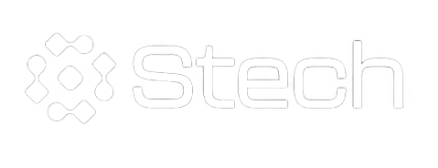
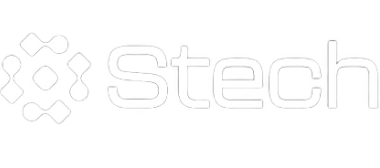
랜딩페이지 로고 수정

diff --git a/Front/src/pages/Landing/LandingHome/MainHeader.js b/Front/src/pages/Landing/LandingHome/MainHeader.js
@@ -4,48 +4,72 @@ import './MainHeader.css'; // Assuming you have a separate CSS file for Header s
 import Logo from './images/stech.png';
 
 const Header = () => {
-    return (
-        <div className="headerBox">
-            <div className="logoBox">
-                <Link to="/">
-                    <img src={Logo} alt="Logo" className="logoImg" />
-                </Link>
-            </div>
-            <div className="menu">
-                <div className="homeButton">
-                    <NavLink to="/" className={({ isActive }) => (isActive ? 'homeActive' : 'home')} end>
-                        Home
-                    </NavLink>
-                </div>
-                <div className="docsButton">
-                    <div className="docs" onClick={() => window.open('https://stech-2.gitbook.io/stech-docs', '_blank')}>
-                        Docs
-                    </div>
-                </div>
-                <div className="teamButton">
-                    <NavLink to="/Team" className={({ isActive }) => (isActive ? 'teamActive' : 'team')}>
-                        Team
-                    </NavLink>
-                </div>
-                <div className="deckButton">
-                    <NavLink to="/Deck" className={({ isActive }) => (isActive ? 'deckActive' : 'deck')}>
-                        Deck
-                    </NavLink>
-                </div>
-                <div className="contactButton">
-                    <NavLink to="/Contact" className={({ isActive }) => (isActive ? 'contactActive' : 'contact')}>
-                        Contact
-                    </NavLink>
-                </div>
-                <button className="toService">
-                    {/* Link 컴포넌트에 직접 스타일 적용 */}
-                    <Link to="/service" className="serviceButton" style={{ color: '#4f46e5', textDecoration: 'none' }}>
-                        Go to Service
-                    </Link>
-                </button>
-            </div>
+  return (
+    <div className="headerBox">
+      <div className="logoBox">
+        <Link to="/">
+          <img src={Logo} alt="Logo" className="logoImg" />
+        </Link>
+      </div>
+      <div className="menu">
+        <div className="homeButton">
+          <NavLink
+            to="/"
+            className={({ isActive }) => (isActive ? 'homeActive' : 'home')}
+            end
+          >
+            Home
+          </NavLink>
         </div>
-    );
+        <div className="docsButton">
+          <div
+            className="docs"
+            onClick={() =>
+              window.open('https://stech-2.gitbook.io/stech-docs', '_blank')
+            }
+          >
+            Docs
+          </div>
+        </div>
+        <div className="teamButton">
+          <NavLink
+            to="/Team"
+            className={({ isActive }) => (isActive ? 'teamActive' : 'team')}
+          >
+            Team
+          </NavLink>
+        </div>
+        <div className="deckButton">
+          <NavLink
+            to="/Deck"
+            className={({ isActive }) => (isActive ? 'deckActive' : 'deck')}
+          >
+            Deck
+          </NavLink>
+        </div>
+        <div className="contactButton">
+          <NavLink
+            to="/Contact"
+            className={({ isActive }) =>
+              isActive ? 'contactActive' : 'contact'
+            }
+          >
+            Contact
+          </NavLink>
+        </div>
+        <button className="toService">
+          {/* Link 컴포넌트에 직접 스타일 적용 */}
+          <Link
+            to="/service"
+            className="serviceButton"
+            style={{ color: '#4f46e5', textDecoration: 'none' }}
+          >
+            Go to Service
+          </Link>
+        </button>
+      </div>
+    </div>
+  );
 };
 
 export default Header;

diff --git a/Front/src/pages/Landing/LandingHome/MainHeader.css b/Front/src/pages/Landing/LandingHome/MainHeader.css
@@ -1,32 +1,31 @@
 .headerBox {
-    width: 100%;
-    display: flex;
-    justify-content: space-between;
-    align-items: center;
-    padding-bottom: 20px;
-    z-index: 5;
+  width: 100%;
+  display: flex;
+  justify-content: space-between;
+  align-items: center;
+  padding-bottom: 20px;
+  z-index: 5;
 }
 
 .logoBox {
-    height: 100%;
-    width: 100%;
-    position: relative;
-    overflow: hidden;
-    display: flex;
-    justify-content: flex-start;
-    align-items: center;
-    padding-left: 100px;
-    flex-wrap: wrap; /* 모바일 화면에서 줄바꿈 허용 */
+  height: 100%;
+  width: 100%;
+  position: relative;
+  overflow: hidden;
+  display: flex;
+  justify-content: flex-start;
+  align-items: center;
+  flex-wrap: wrap; /* 모바일 화면에서 줄바꿈 허용 */
 }
 .logoImg {
-    width: 200px;
+  width: 200px;
 }
 .menu {
-    display: flex;
-    gap: 30px !important; /* !important로 우선순위 강제 */
-    padding: 0 20px !important;
-    align-items: center;
-    justify-content: center;
+  display: flex;
+  gap: 30px !important; /* !important로 우선순위 강제 */
+  padding: 0 20px !important;
+  align-items: center;
+  justify-content: center;
 }
 
 .homeButton,
@@ -34,14 +33,14 @@
 .teamButton,
 .deckButton,
 .contactButton {
-    display: flex;
-    justify-content: center;
-    align-items: center;
-    height: 50px;
-    font-size: 20px !important;
-    color: #ffffff;
-    text-decoration: none;
-    font-family: pertendard;
+  display: flex;
+  justify-content: center;
+  align-items: center;
+  height: 50px;
+  font-size: 20px !important;
+  color: #ffffff;
+  text-decoration: none;
+  font-family: pertendard;
 }
 
 .homeActive,
@@ -49,34 +48,34 @@
 .teamActive,
 .deckActive,
 .contactActive {
-    display: flex;
-    justify-content: center;
-    align-items: center;
-    height: 50px;
-    font-size: 20px !important;
-    color: #f77705 !important;
-    text-decoration: none;
-    font-family: pertendard;
+  display: flex;
+  justify-content: center;
+  align-items: center;
+  height: 50px;
+  font-size: 20px !important;
+  color: #f77705 !important;
+  text-decoration: none;
+  font-family: pertendard;
 }
 
 .toService {
-    height: 50px;
-    display: flex;
-    justify-content: center;
-    align-items: center;
-    border-radius: 10px;
-    background: #ffffff;
-    font-size: 20px;
-    font-weight: 600;
-    margin-top: 5px;
-    padding: 0px 20px 0px 20px;
-    width: 100%;
-    border: none;
-    white-space: nowrap; /* 줄바꿈 방지 */
+  height: 50px;
+  display: flex;
+  justify-content: center;
+  align-items: center;
+  border-radius: 10px;
+  background: #ffffff;
+  font-size: 20px;
+  font-weight: 600;
+  margin-top: 5px;
+  padding: 0px 20px 0px 20px;
+  width: 100%;
+  border: none;
+  white-space: nowrap; /* 줄바꿈 방지 */
 }
 
 @media (max-width: 1024px) {
-    .menu .toService {
-        display: none;
-    }
+  .menu .toService {
+    display: none;
+  }
 }
